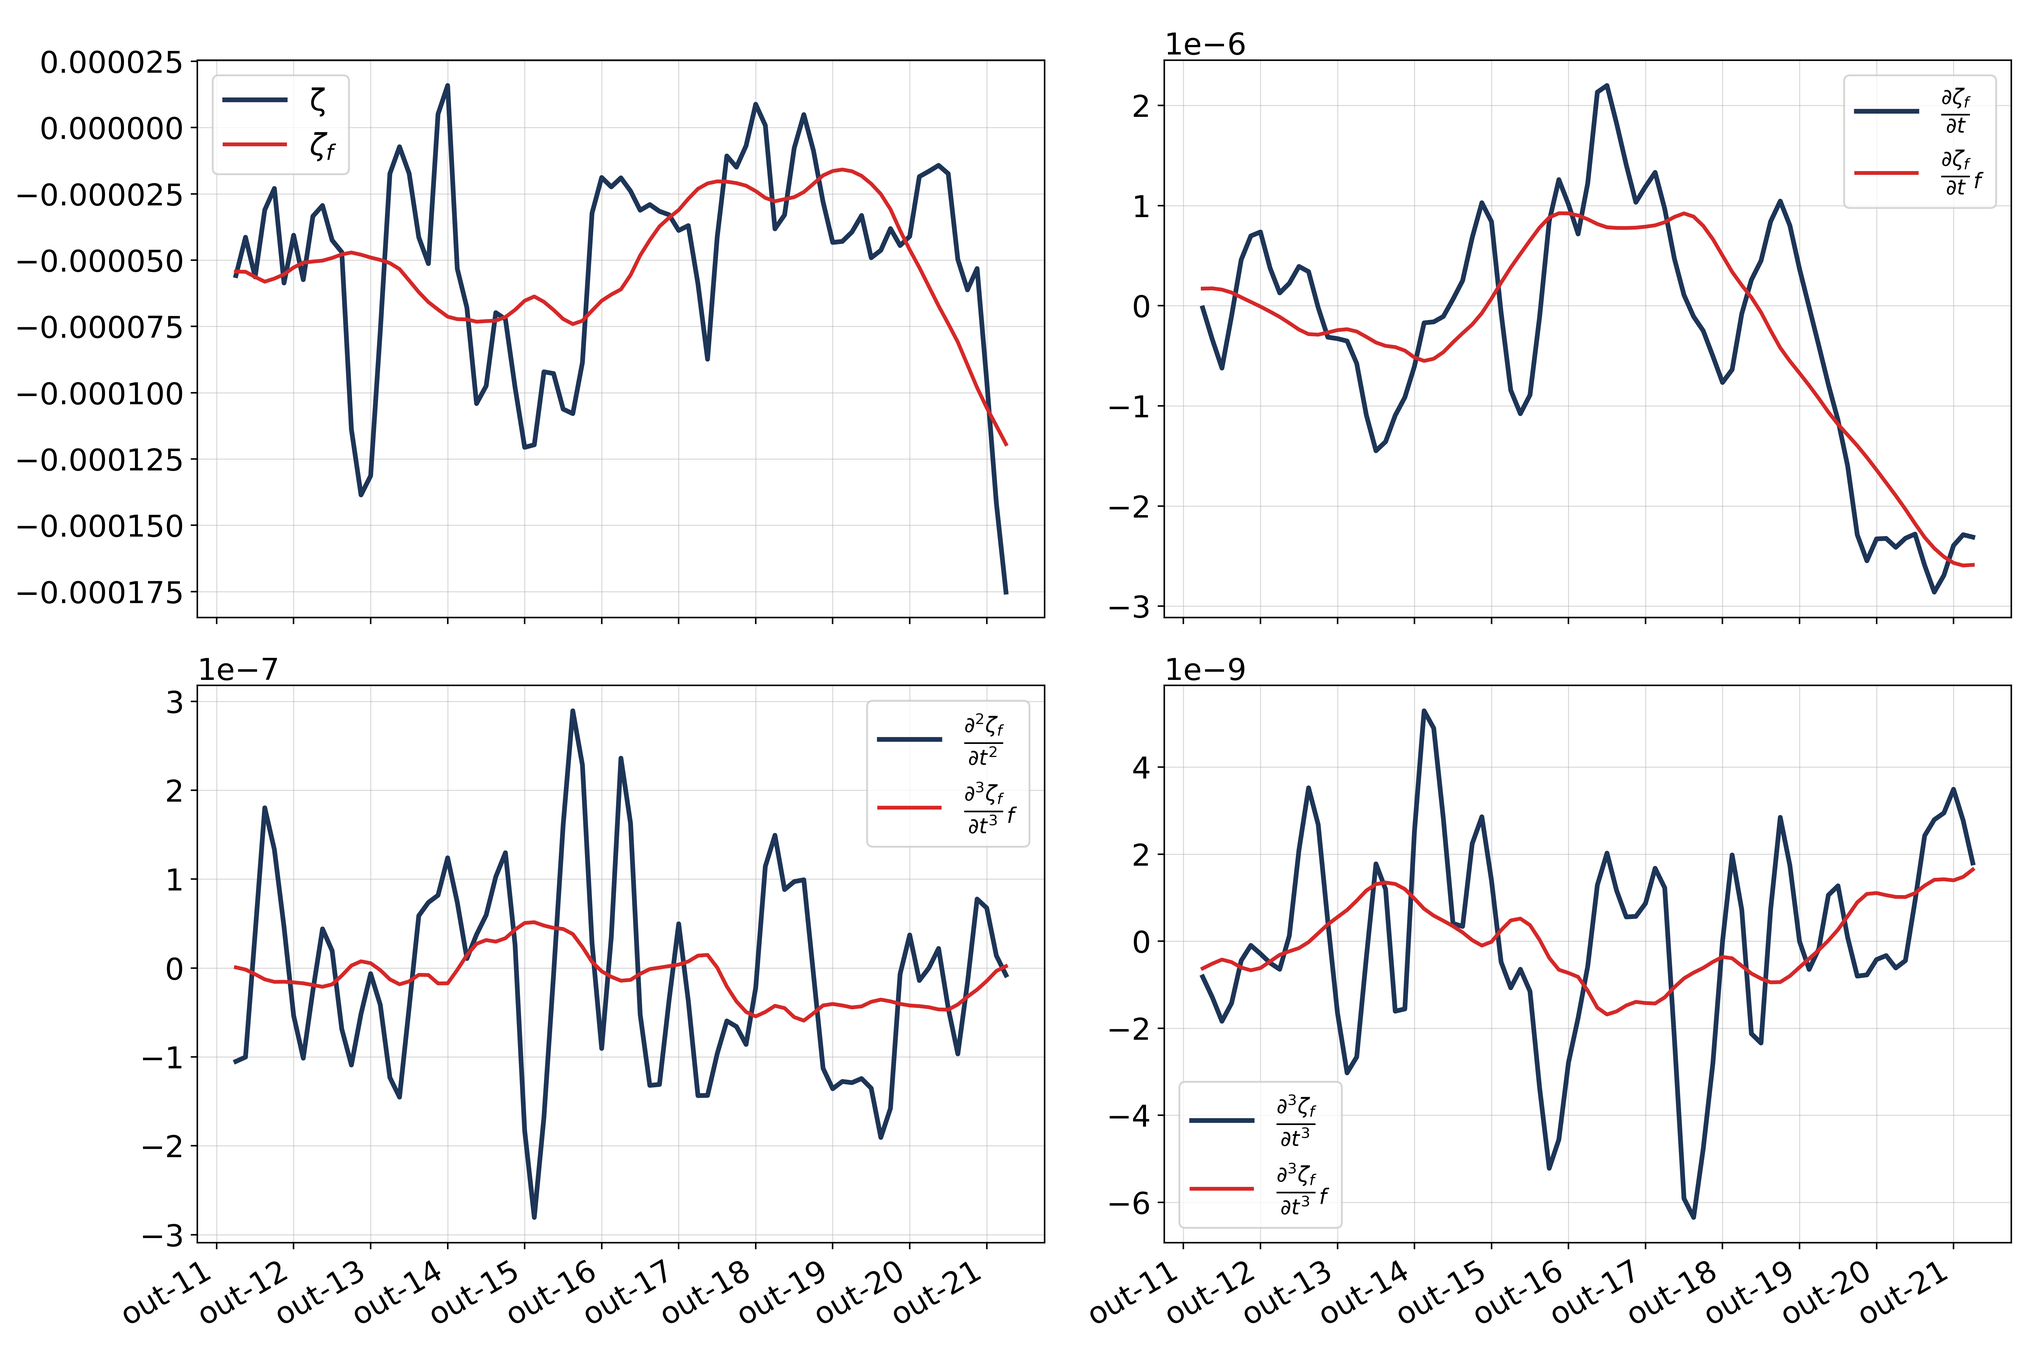
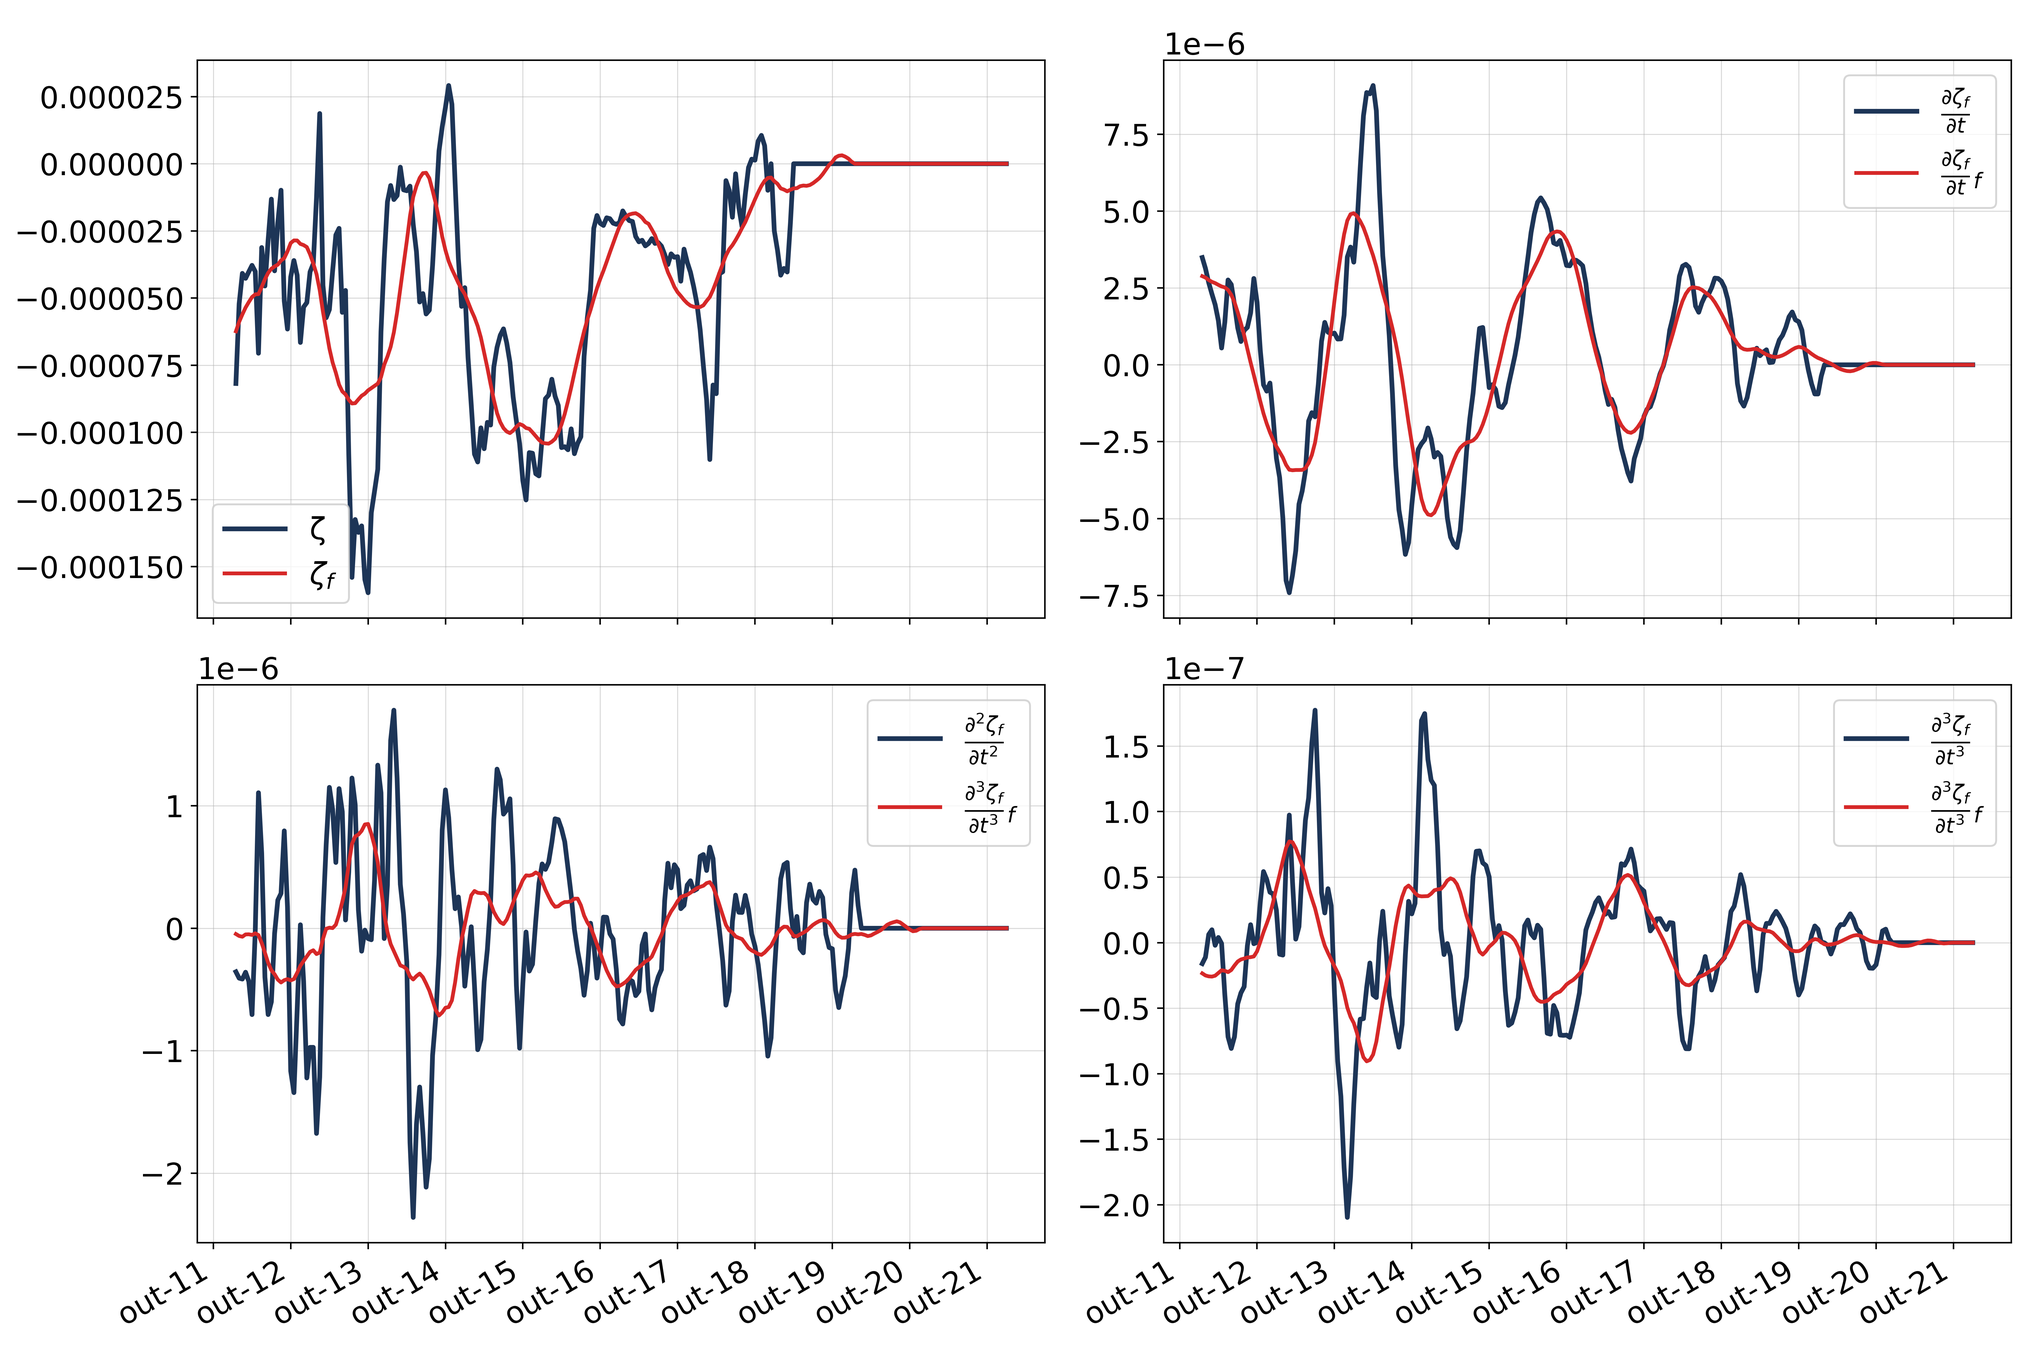
advances on periods

diff --git a/src/determine_periods.py b/src/determine_periods.py
@@ -72,6 +72,12 @@ def plot_vorticity(min_zeta, dzdt, fname):
         'size'   : 16}
 
     matplotlib.rc('font', **font)
+    
+    window_lenght = round(len(min_zeta)/2)
+    if (window_lenght % 2) == 0:
+        window_lenght += 1
+        
+    wl = 21
 
     # min_zeta = min_zeta.resample('3H').mean()    
     times = min_zeta.index
@@ -79,36 +85,40 @@ def plot_vorticity(min_zeta, dzdt, fname):
     plt.close('all')
     fig = plt.figure(figsize=(15, 10))
     gs = gridspec.GridSpec(2, 2)
+    
     # Zeta 850
+    ds_min_zeta = xr.DataArray(np.array(min_zeta[0]),coords={'time':times})
     ax = fig.add_subplot(gs[0, 0],frameon=True)
     kwargs={'title':'min_Zeta', 'labels':['ζ', r'$ζ_f$']}
-    zeta_fil = savgol_filter(min_zeta[0], 39, 3, mode="nearest")
+    zeta_fil = savgol_filter(min_zeta[0], window_lenght, 3, mode="nearest")
     plot_timeseries(ax, times, *[min_zeta, zeta_fil], **kwargs)
+    
     # dZdt
     ax = fig.add_subplot(gs[0, 1],frameon=True)
     kwargs={'title':'dzdt','labels':[r'$\frac{∂ζ_f}{∂t}$',r'$\frac{∂ζ_f}{∂t}_f$']}
     zeta_fil = xr.DataArray(np.array(zeta_fil),coords={'time':times})
     dzfil_dt = zeta_fil.differentiate('time',datetime_unit='h') 
-    dzfildt_fil = savgol_filter(dzfil_dt, 39, 3, mode="nearest")
+    dzfildt_fil = savgol_filter(dzfil_dt, window_lenght, 2, mode="nearest")
     plot_timeseries(ax, times, *[dzfil_dt, dzfildt_fil], **kwargs)
+    
     # dZdt2
     ax = fig.add_subplot(gs[1, 0],frameon=True)
     kwargs={'title':'dzdt','labels':[r'$\frac{∂^{2}ζ_f}{∂t^{2}}$',
-                                     r'$\frac{∂^{3}ζ_f}{∂t^{3}}_f$']}
+                                      r'$\frac{∂^{3}ζ_f}{∂t^{3}}_f$']}
     dzfildt_fil = xr.DataArray(np.array(dzfildt_fil),coords={'time':times})
     dzfil_dt2 = dzfil_dt.differentiate('time',datetime_unit='h') 
-    dzfildt2_fil = dzfildt_fil.differentiate('time',datetime_unit='h') 
+    dzfildt2_fil = savgol_filter(dzfil_dt2, window_lenght, 2, mode="nearest")
     plot_timeseries(ax, times, *[dzfil_dt2, dzfildt2_fil], **kwargs)
+    
     # dZdt3
     ax = fig.add_subplot(gs[1, 1],frameon=True)
     kwargs={'title':'dzdt','labels':[r'$\frac{∂^{3}ζ_f}{∂t^{3}}$',
-                                     r'$\frac{∂^{3}ζ_f}{∂t^{3}}_f$']}
-    # dzfil_dt3 = dzfil_dt2.differentiate('time',datetime_unit='h')
-    # dzfil_dt3_fil = savgol_filter(dzfil_dt3, 39, 3, mode="nearest")
-    dzfildt3_fil = dzfildt2_fil.differentiate('time',datetime_unit='h') 
-    dzfil2_dt3_fil = savgol_filter(dzfildt3_fil, 39, 3, mode="nearest")
-    plot_timeseries(ax, times, *[dzfildt3_fil, dzfil2_dt3_fil], **kwargs)
-    
+                                      r'$\frac{∂^{3}ζ_f}{∂t^{3}}_f$']}
+    dzfil_dt3 = dzfil_dt.differentiate('time',datetime_unit='h'
+                                    ).differentiate('time',datetime_unit='h')
+    dzfil_dt3_fil = savgol_filter(dzfil_dt3, wl, 2, mode="nearest")
+    plot_timeseries(ax, times, *[dzfil_dt3, dzfil_dt3_fil], **kwargs)
+
     plt.tight_layout()
     fig.align_labels()
     
@@ -116,68 +126,181 @@ def plot_vorticity(min_zeta, dzdt, fname):
     
 def get_periods(min_zeta):
     
-    # min_zeta = min_zeta.resample('3H').mean() 
-    times = min_zeta.index
-    
-    zeta_fil = savgol_filter(min_zeta[0], 39, 3, mode="nearest")
-    zeta_fil = xr.DataArray(np.array(zeta_fil),coords={'time':times})
+    # Set filter window_lenght to be half the of timeseries lenght
+    window_lenght = round(len(min_zeta)/2)
+    if (window_lenght % 2) == 0:
+        window_lenght += 1
+        
+    # Transform Vorticity into DataArray and get derivatives
+    zeta_fil = xr.DataArray(np.array(
+        savgol_filter(min_zeta[0], window_lenght, 3, mode="nearest")),
+        coords={'time':times})
     dzfil_dt = zeta_fil.differentiate('time',datetime_unit='h') 
-    
-    dzfil_dt2 = dzfil_dt.differentiate('time',datetime_unit='h') 
+    dzfil_dt2 = dzfil_dt.differentiate('time',datetime_unit='h')
     dzfil_dt3 = dzfil_dt2.differentiate('time',datetime_unit='h')
     
-    intensification = dzfil_dt.time.where(dzfil_dt < 0, drop=True).values
-    intensification = pd.to_datetime(intensification)
-    decay = dzfil_dt.time.where(dzfil_dt > 0, drop=True).values
-    decay = pd.to_datetime(decay)
+    # Get the peiod of minimum vorticity. For splititng data in half.
+    # The timesteps before it cannot be decaying stages. 
+    minimum = zeta_fil.min()
+    tmin_zeta = zeta_fil[zeta_fil==minimum].time.values
+    zeta_fill_first_half = zeta_fil.where(zeta_fil.time < tmin_zeta
+                                          ).dropna(dim='time')
+    # The same goes for everything after the local minimum: it cannot be
+    # intensification or inicipient periods
+    zeta_fill_second_half = zeta_fil.where(zeta_fil.time > tmin_zeta
+                                          ).dropna(dim='time')
     
-    dzdt3_abs = np.abs(dzfil_dt3)
-    dzdt3_norm = (dzdt3_abs-dzdt3_abs.min())/(dzdt3_abs.max()-dzdt3_abs.min())
-    da_dzdt3_norm = xr.DataArray(np.array(dzdt3_norm),coords={'time':times})
+    # Intensification is given by the period between local minima and maxima
+    # of the vorticity third derivative, but for the first half of the
+    # vorticity time series
+    dzfil_dt3_fh = dzfil_dt3.sel(time=zeta_fill_first_half.time)
+    intensification_end = dzfil_dt3_fh.idxmin().values
+    intensification_start = dzfil_dt3_fh.idxmax().values
+    intensification = zeta_fil.time.sel(
+        time=slice(intensification_start,intensification_end))
     
-    # For the third derivative, get the 10% smaller values
-    dz10th =  da_dzdt3_norm[da_dzdt3_norm < da_dzdt3_norm.quantile(.2)][TimeIndexer].values
-    # Remove not continuous values
-    dt_original = dzfil_dt3[TimeIndexer][1] - dzfil_dt3[TimeIndexer][0]
-    mature = []
-    for i in range(len(dz10th)-1):
-        dt = dz10th[i+1] - dz10th[i]
-        if dt != dt_original:
-            pass
-        else:
-            mature.append(dz10th[i])
-            mature.append(dz10th[i+1])
-    mature = pd.to_datetime(mature)
+    # Everything before the intensification start is incipient phase
+    incipient = zeta_fill_first_half.time.where(
+        zeta_fill_first_half.time < intensification_start).dropna(dim='time')
+    incipient_start = zeta_fil.time[0].values
+    incipient_end = incipient[-1].values
+    incipient
     
-    # Now, remove mature periods from intensification and decay
-    intensification = pd.to_datetime(
-        [x for x in intensification if(x <= mature.min())])
-    decay = pd.to_datetime([x for x in decay if (x >= mature.max())])
+    # For decaying phase, it will be followed the same procedure as for the
+    # intensification, but inverted: the local minima starts the intensfication
+    # period, which will follow until the end of data
+    dzfil_dt3_sh = dzfil_dt3.sel(time=zeta_fill_second_half.time)
+    decay_start = dzfil_dt3_sh.idxmin().values
+    decay_end = zeta_fil.time[-1].values
     
-    # plot periods
+    # Mature stage is everything between end of intensification and start of
+    # the decaying stage
+    dt = zeta_fil.time[1] - zeta_fil.time[0]
+    mature_start = zeta_fil.sel(time=intensification_end+dt).time.values
+    mature_end = zeta_fil.sel(time=decay_start-dt).time.values
+    
+    # Plot results
     plt.close('all')
-    fig = plt.figure(figsize=(10, 15))
-    gs = gridspec.GridSpec(1, 1)
-    ax = fig.add_subplot(gs[0, 0],frameon=True)
-    kwargs={'title':'min_Zeta', 'labels':['ζ', r'$ζ_f$']}
-    plot_timeseries(ax, times, *[min_zeta, zeta_fil], **kwargs)
+    fig = plt.figure(figsize=(15, 10))
+    ax = fig.add_subplot(111,frameon=True)
+    colors = ['k', '#134074', '#d62828', '#f7b538', '#5b8e7d',]
     
-    for period,str in zip([intensification, mature, decay],
-                          ['int.', 'mature', 'decay']):
-        try:
-            ax.axvline(period[0], c='gray', linestyle='dashed')
-            ax.axvline(period[-1], c='gray', linestyle='dashed')
-            pos = round(len(period)/2)
-            ax.text(period[pos], max(min_zeta)*1.3, str, weight='bold',
-                    horizontalalignment='right')
-            plt.savefig('../periods/'+fname+'_periods.png',dpi=500)
-        except:
-            print('could not determine periods.')
-    return intensification, mature, decay
+    # Plot filtered vorticity and vorticity on background
+    ax.plot(min_zeta.index, min_zeta, c='gray', linewidth=1,label=r'$ζ$',
+            zorder=98)
+    
+    ax2 = ax.twinx()
+    ax2.plot(dzfil_dt3.time, dzfil_dt3, c='#283618', linewidth=2, alpha=0.8,
+             label=r'$\frac{∂^{3}ζ_f}{∂t^{3}}$')
+    
+    ax.plot(zeta_fil.time, zeta_fil,c=colors[0], linewidth=4,label=r'$ζ_f$',
+            zorder=101)    
+    
+    # Plot periods
+    y = np.arange(min_zeta[0].min(),min_zeta[0].max()+1e-5,1e-5)
+    ax.fill_betweenx(y, incipient_start, intensification_start, 
+                     facecolor=colors[1], alpha=0.2, label='incipient')
+                
+    ax.fill_betweenx(y, intensification_start, mature_start,
+                     facecolor=colors[2], alpha=0.2, label='intensification')
+
+    ax.fill_betweenx(y, mature_start, decay_start,
+                     facecolor=colors[3], alpha=0.2, label='mature')
+    
+    ax.fill_betweenx(y, decay_start, decay_end,
+                     facecolor=colors[4], alpha=0.2, label='decay')
+    
+    plt.xlim(zeta_fil.time[0].values, zeta_fil.time[-1].values)
+    ax.set_ylim(y[0],y[-1])
+    ax.legend()
+    ax2.legend()
+    plt.grid(linewidth=0.5, alpha=0.5)
+    plt.gca().xaxis.set_major_formatter(mdates.DateFormatter('%b-%d'))
+    plt.gca().xaxis.set_major_locator(mdates.DayLocator())
+    plt.gcf().autofmt_xdate()
+    
+    plt.savefig('../periods/'+fname+'_preiods.png',dpi=500)
+    
+    return
+    
+# def get_periods(min_zeta):
+    
+#     # min_zeta = min_zeta.resample('3H').mean() 
+#     times = min_zeta.index
+    
+#     window_lenght = round(len(min_zeta)/2)
+#     if (window_lenght % 2) == 0:
+#         window_lenght += 1
+    
+#     zeta_fil = savgol_filter(min_zeta[0], window_lenght, 3, mode="nearest")
+#     zeta_fil = xr.DataArray(np.array(zeta_fil),coords={'time':times})
+#     # dzfil_dt = zeta_fil.differentiate('time',datetime_unit='h') 
+#     ds_min_zeta = xr.DataArray(np.array(min_zeta[0]),coords={'time':times})
+#     dz_dt = ds_min_zeta.differentiate('time',datetime_unit='h') 
+    
+#     # dzfil_dt2 = dzfil_dt.differentiate('time',datetime_unit='h') 
+#     # dzfil_dt3 = dzfil_dt2.differentiate('time',datetime_unit='h')
+#     dz_dt2 = dz_dt.differentiate('time',datetime_unit='h') 
+#     dz_dt3 = dz_dt2.differentiate('time',datetime_unit='h') 
+    
+#     # intensification = dzfil_dt.time.where(dzfil_dt < 0, drop=True).values
+#     # intensification = pd.to_datetime(intensification)
+#     # decay = dzfil_dt.time.where(dzfil_dt > 0, drop=True).values
+#     # decay = pd.to_datetime(decay)
+    
+#     intensification = dz_dt.time.where(dz_dt < 0, drop=True).values
+#     intensification = pd.to_datetime(intensification)
+#     decay = dz_dt.time.where(dz_dt > 0, drop=True).values
+#     decay = pd.to_datetime(decay)
+    
+#     # dzdt3_abs = np.abs(dzfil_dt3)
+#     # dzdt3_norm = (dzdt3_abs-dzdt3_abs.min())/(dzdt3_abs.max()-dzdt3_abs.min())
+#     # da_dzdt3_norm = xr.DataArray(np.array(dzdt3_norm),coords={'time':times})
+    
+#     # # For the third derivative, get the 10% smaller values
+#     # dz10th =  da_dzdt3_norm[da_dzdt3_norm < da_dzdt3_norm.quantile(.2)][TimeIndexer].values
+#     # # Remove not continuous values
+#     # dt_original = dzfil_dt3[TimeIndexer][1] - dzfil_dt3[TimeIndexer][0]
+#     # mature = []
+#     # for i in range(len(dz10th)-1):
+#     #     dt = dz10th[i+1] - dz10th[i]
+#     #     if dt != dt_original:
+#     #         pass
+#     #     else:
+#     #         mature.append(dz10th[i])
+#     #         mature.append(dz10th[i+1])
+#     # mature = pd.to_datetime(mature)
+    
+#     # Now, remove mature periods from intensification and decay
+#     intensification = pd.to_datetime(
+#         [x for x in intensification if(x <= mature.min())])
+#     decay = pd.to_datetime([x for x in decay if (x >= mature.max())])
+    
+#     # plot periods
+#     plt.close('all')
+#     fig = plt.figure(figsize=(10, 10))
+#     gs = gridspec.GridSpec(1, 1)
+#     ax = fig.add_subplot(gs[0, 0],frameon=True)
+#     kwargs={'title':'min_Zeta', 'labels':['ζ', r'$ζ_f$']}
+#     plot_timeseries(ax, times, *[min_zeta, zeta_fil], **kwargs)
+    
+#     for period,str in zip([intensification, mature, decay],
+#                           ['int.', 'mature', 'decay']):
+#         try:
+#             ax.axvline(period[0], c='gray', linestyle='dashed')
+#             ax.axvline(period[-1], c='gray', linestyle='dashed')
+#             pos = round(len(period)/2)
+#             ax.text(period[pos], max(min_zeta)*1.3, str, weight='bold',
+#                     horizontalalignment='right')
+#             plt.savefig('../periods/'+fname+'_periods.png',dpi=500)
+#         except:
+#             print('could not determine periods.')
+#     return intensification, mature, decay
 
 data_dir = '/home/daniloceano/Documents/Programs_and_scripts/SWSA-cyclones_energetic-analysis/met_data/ERA5/DATA/'
-testtrack = '../tracks_LEC-format/intense/track_19820684'
+testtrack = '../tracks_LEC-format/intense/track_20180722'
 varlist = '/home/daniloceano/Documents/Programs_and_scripts/lorenz-cycle/inputs/fvars_ERA5-cdsapi'
+testfile = '/home/daniloceano/Documents/Programs_and_scripts/SWSA-cyclones_energetic-analysis/met_data/ERA5/DATA/20180722_ERA5.nc'
 
 # testfile = '/Users/danilocoutodsouza/Documents/USP/Programs_and_scripts/data_etc/netCDF_data/Reg1-Representative_ERA5.nc'
 # testtrack = '/Users/danilocoutodsouza/Documents/USP/Programs_and_scripts/lorenz-cycle/inputs/track_Reg1-Representative'
@@ -190,42 +313,46 @@ TimeIndexer = dfVars.loc['Time']['Variable']
 LevelIndexer = dfVars.loc['Vertical Level']['Variable']
                
 
-for testfile in glob.glob(data_dir+'/*')[1:]:   
-    fname = testfile.split('/')[-1].split('.nc')[0]                         
-    da = convert_lon(xr.open_dataset(testfile),LonIndexer)
-    da850 = da.sel({LevelIndexer:850})
-    u850 = da850[dfVars.loc['Eastward Wind Component']['Variable']] * units('m/s')
-    v850 = da850[dfVars.loc['Northward Wind Component']['Variable']] * units('m/s')
-    zeta850 = vorticity(u850,v850)
-    dZdt = zeta850.differentiate(TimeIndexer,datetime_unit='h') 
+# for testfile in glob.glob(data_dir+'/*')[1:]:   
     
-    track = pd.read_csv(testtrack, parse_dates=[0],delimiter=';',index_col='time')
-    
-    min_lat, max_lat = track.Lat.min(), track.Lat.max()
-    min_lon, max_lon = track.Lon.min(), track.Lon.max()
-    
-    min_zeta = []
-    dzdt = []
-    lats, lons = [], []
-    times = []
-    for t in zeta850[TimeIndexer]:
-        datestr = pd.to_datetime(t.values)
-        if datestr in track.index:
-            lat,lon = track.loc[datestr]
-            lats.append(lat), lons.append(lon)
-            
-            min_zeta.append(float(zeta850.sel({TimeIndexer:t}, method='nearest'
-                                        ).sel({LatIndexer:lat,LonIndexer:lon},
-                                              method='nearest')))
-            
-            dzdt.append(float(dZdt.sel({TimeIndexer:t}, method='nearest'
-                                        ).sel({LatIndexer:lat,LonIndexer:lon},
-                                              method='nearest')))      
-            times.append(datestr)
-        
+fname = testfile.split('/')[-1].split('.nc')[0]   
+print(fname)
+                  
+da = convert_lon(xr.open_dataset(testfile),LonIndexer)
+da850 = da.sel({LevelIndexer:850})
+u850 = da850[dfVars.loc['Eastward Wind Component']['Variable']] * units('m/s')
+v850 = da850[dfVars.loc['Northward Wind Component']['Variable']] * units('m/s')
+zeta850 = vorticity(u850,v850)
+dZdt = zeta850.differentiate(TimeIndexer,datetime_unit='h') 
 
-    min_zeta = pd.DataFrame(min_zeta, index=times)
-    # plot_track(lons, lats, min_zeta, fname)
-    # plot_vorticity(min_zeta, dzdt, fname)
-    intensification, mature, decay  = get_periods(min_zeta)
+track = pd.read_csv(testtrack, parse_dates=[0],delimiter=';',index_col='time')
+
+min_lat, max_lat = track.Lat.min(), track.Lat.max()
+min_lon, max_lon = track.Lon.min(), track.Lon.max()
+
+min_zeta = []
+dzdt = []
+lats, lons = [], []
+times = []
+for t in zeta850[TimeIndexer]:
+    datestr = pd.to_datetime(t.values)
+    if datestr in track.index:
+        lat,lon = track.loc[datestr]
+        lats.append(lat), lons.append(lon)
+        
+        min_zeta.append(float(zeta850.sel({TimeIndexer:t}, method='nearest'
+                                    ).sel({LatIndexer:lat,LonIndexer:lon},
+                                          method='nearest')))
+        
+        dzdt.append(float(dZdt.sel({TimeIndexer:t}, method='nearest'
+                                    ).sel({LatIndexer:lat,LonIndexer:lon},
+                                          method='nearest')))      
+        times.append(datestr)
+    
+
+min_zeta = pd.DataFrame(min_zeta, index=times)
+# plot_track(lons, lats, min_zeta, fname)
+# plot_vorticity(min_zeta, dzdt, fname)
+# intensification, mature, decay  = get_periods(min_zeta)
+
     
